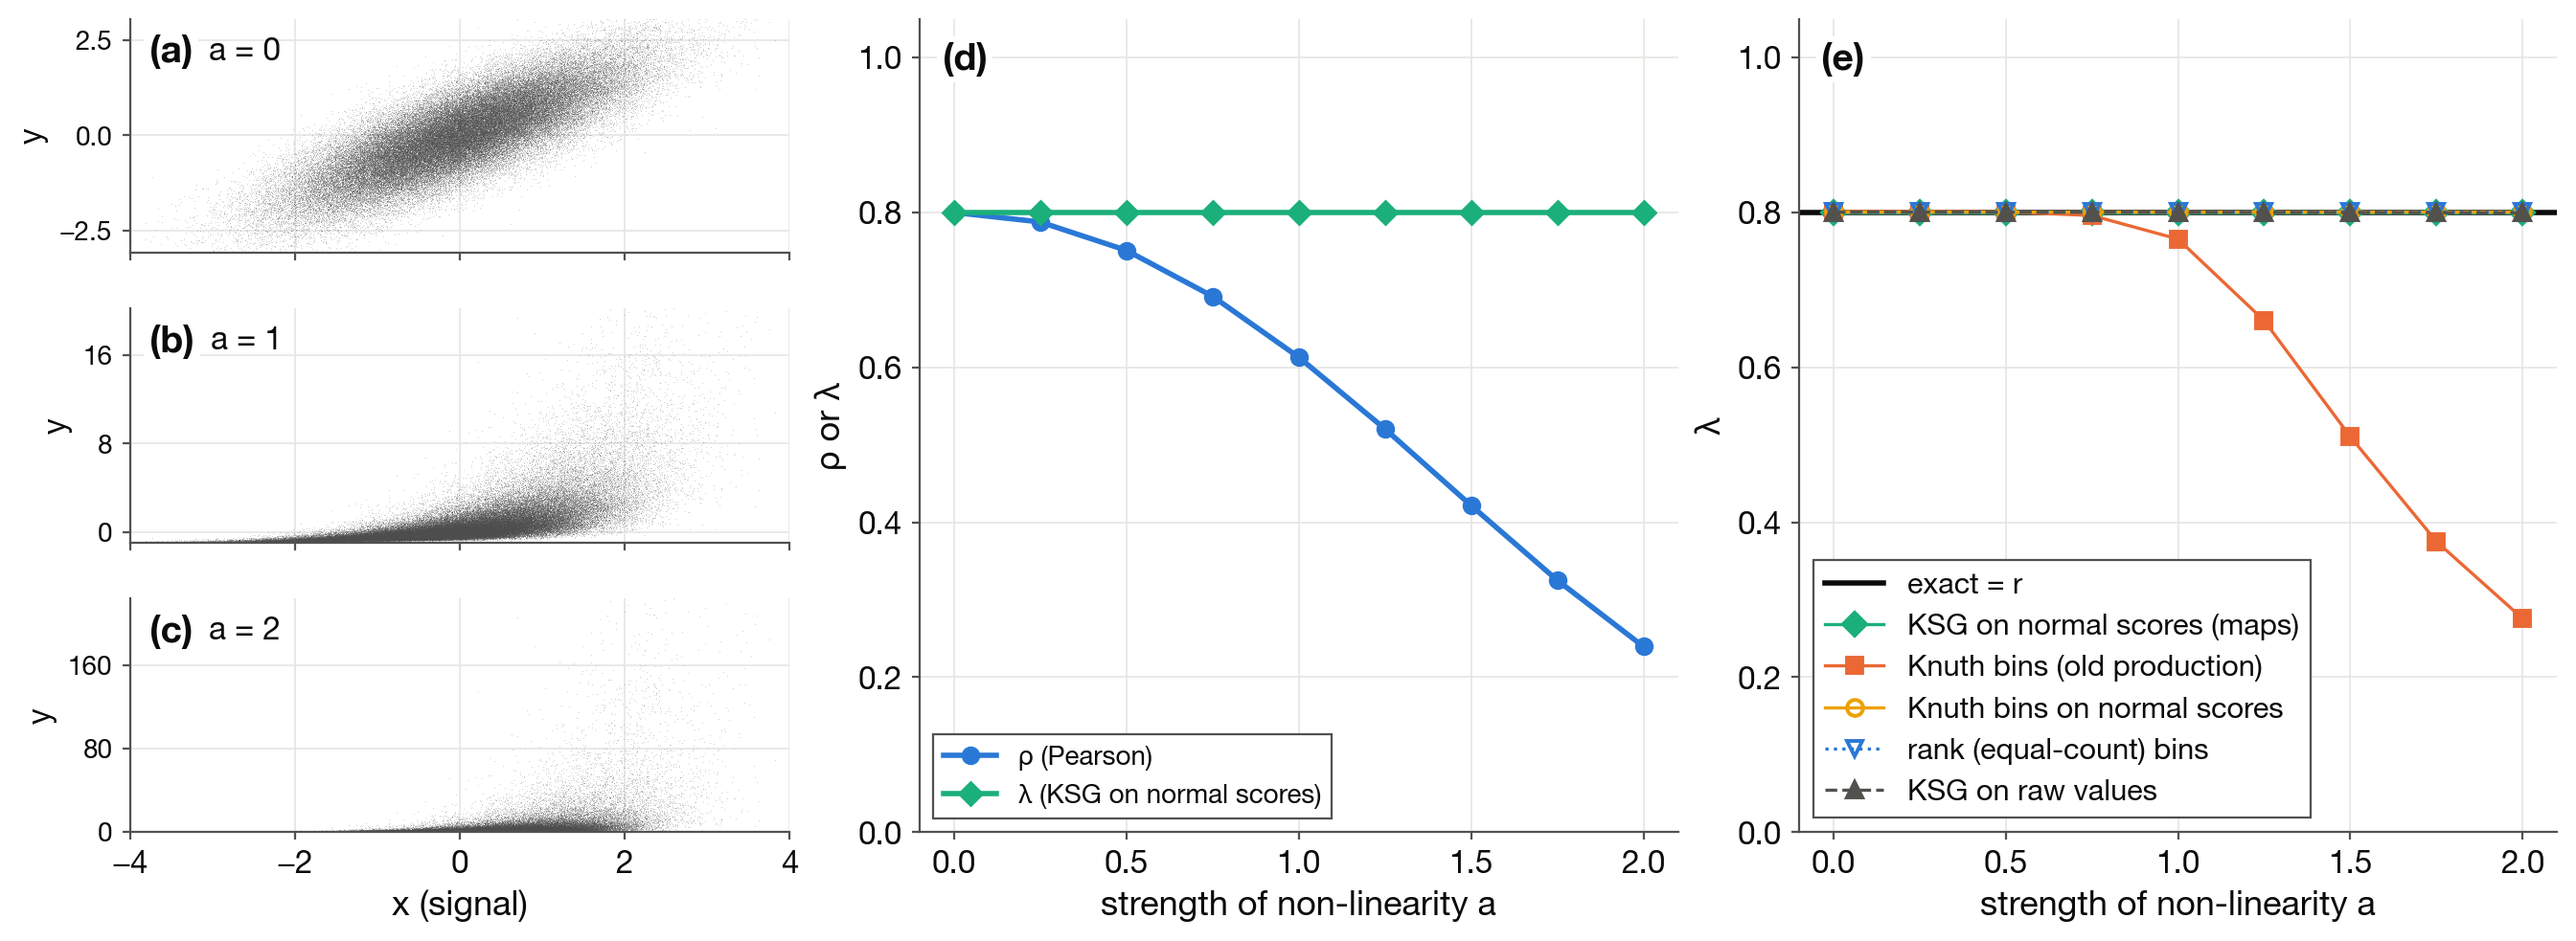
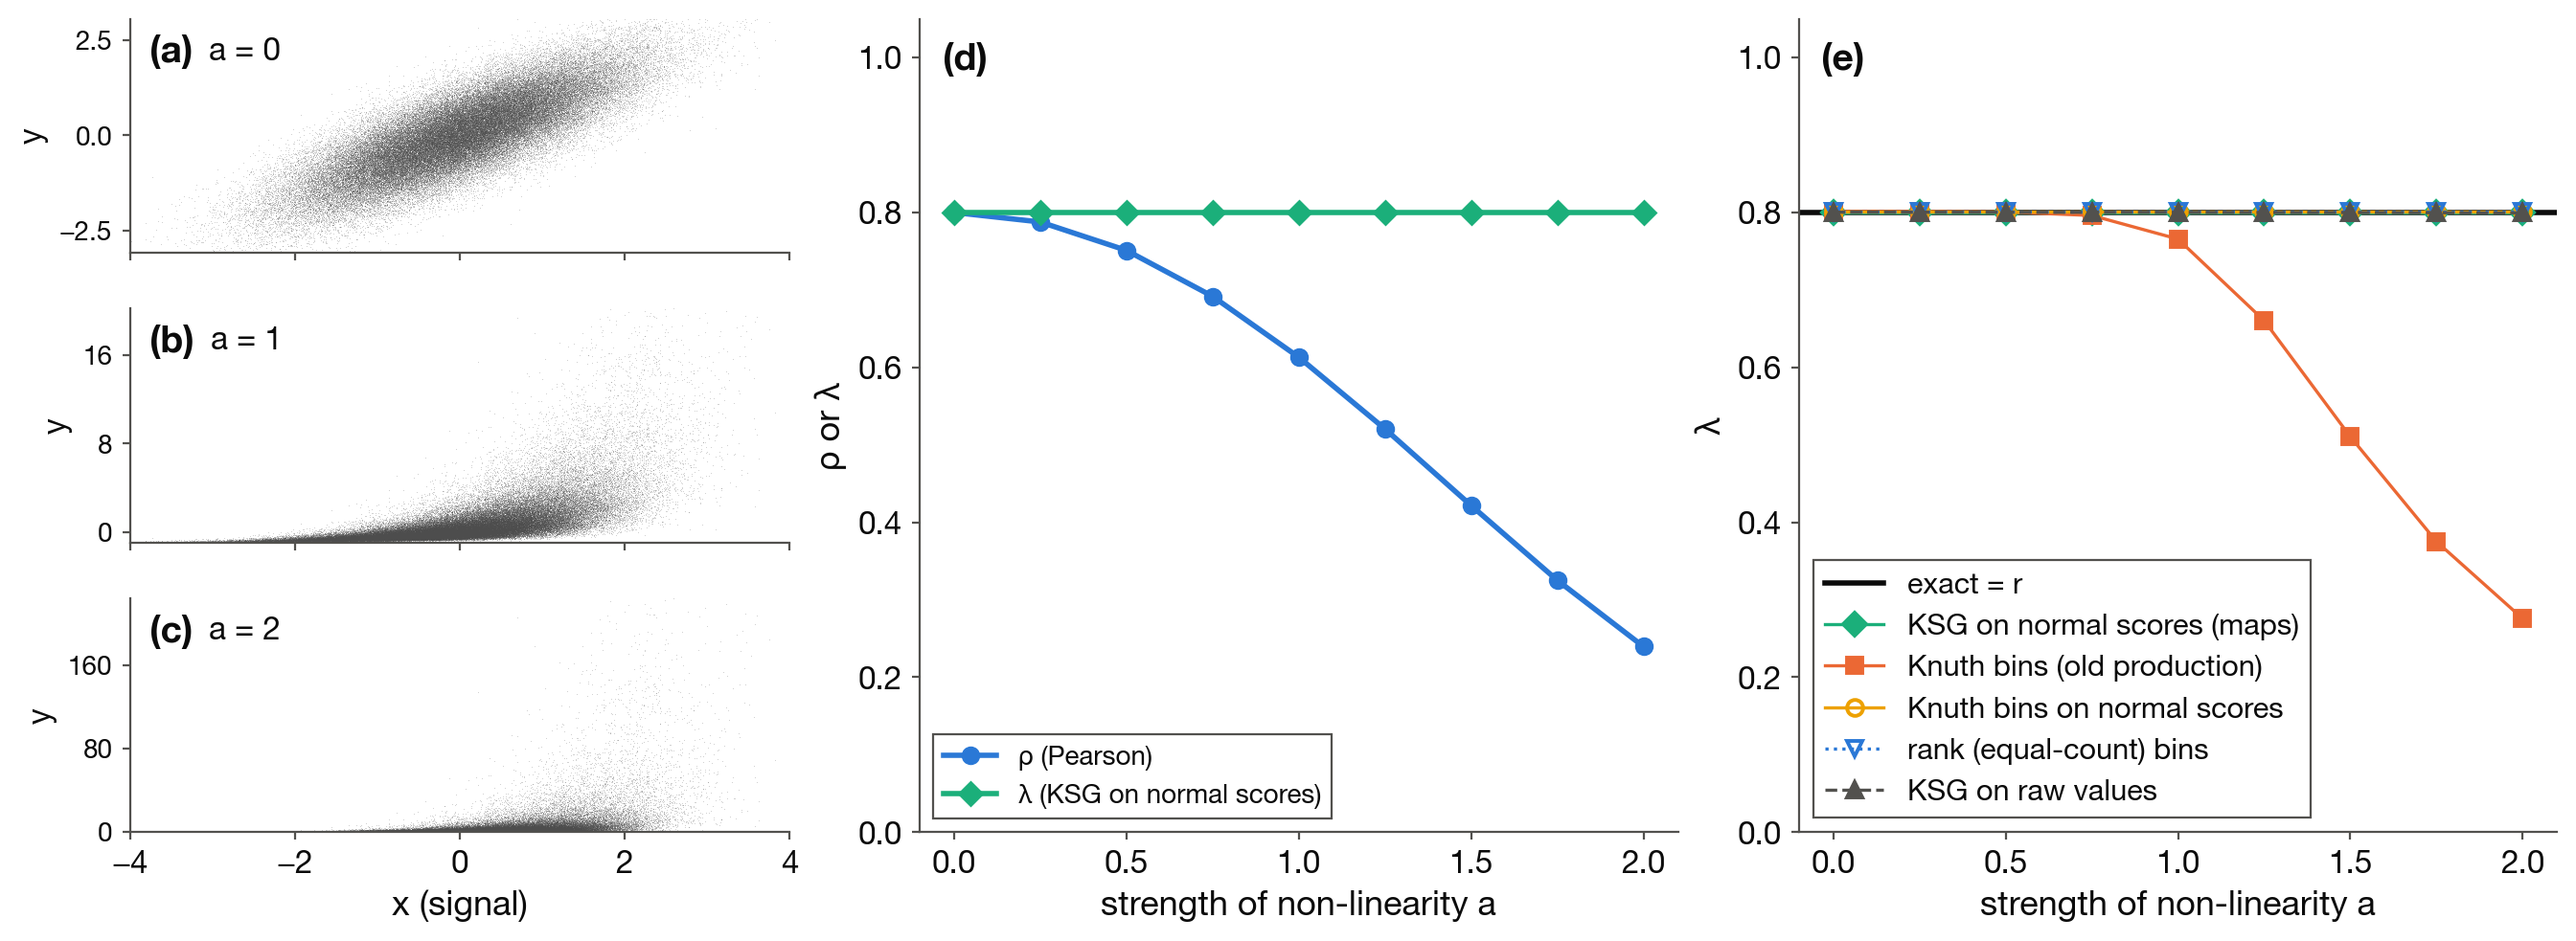
monotonic-lambda-rho: no grid lines

diff --git a/scripts/monotonic_demo.py b/scripts/monotonic_demo.py
@@ -169,7 +169,7 @@ def figure(res, n, r, seed):
             ax.set_ylabel("y", fontsize=12)
             ax.yaxis.set_major_locator(plt.MaxNLocator(3))
             ax.tick_params(axis="y", labelsize=10)
-            style.tidy(ax)
+            style.tidy(ax, grid=False)
             if i < 2:
                 ax.set_xticklabels([])
             else:
@@ -183,7 +183,7 @@ def figure(res, n, r, seed):
         ax.set_ylabel("ρ or λ")
         ax.set_ylim(0, 1.05)
         ax.legend(frameon=True, fancybox=False, loc="lower left", fontsize=10)
-        style.tidy(ax)
+        style.tidy(ax, grid=False)
         corner(ax, "d")
 
         ax = axs[2]
@@ -204,7 +204,7 @@ def figure(res, n, r, seed):
         ax.set_ylabel("λ")
         ax.set_ylim(0, 1.05)
         ax.legend(frameon=True, fancybox=False, loc="lower left")
-        style.tidy(ax)
+        style.tidy(ax, grid=False)
         corner(ax, "e")
         style.save(fig, NAME, dpi=200, folder="slides")
         plt.close(fig)
